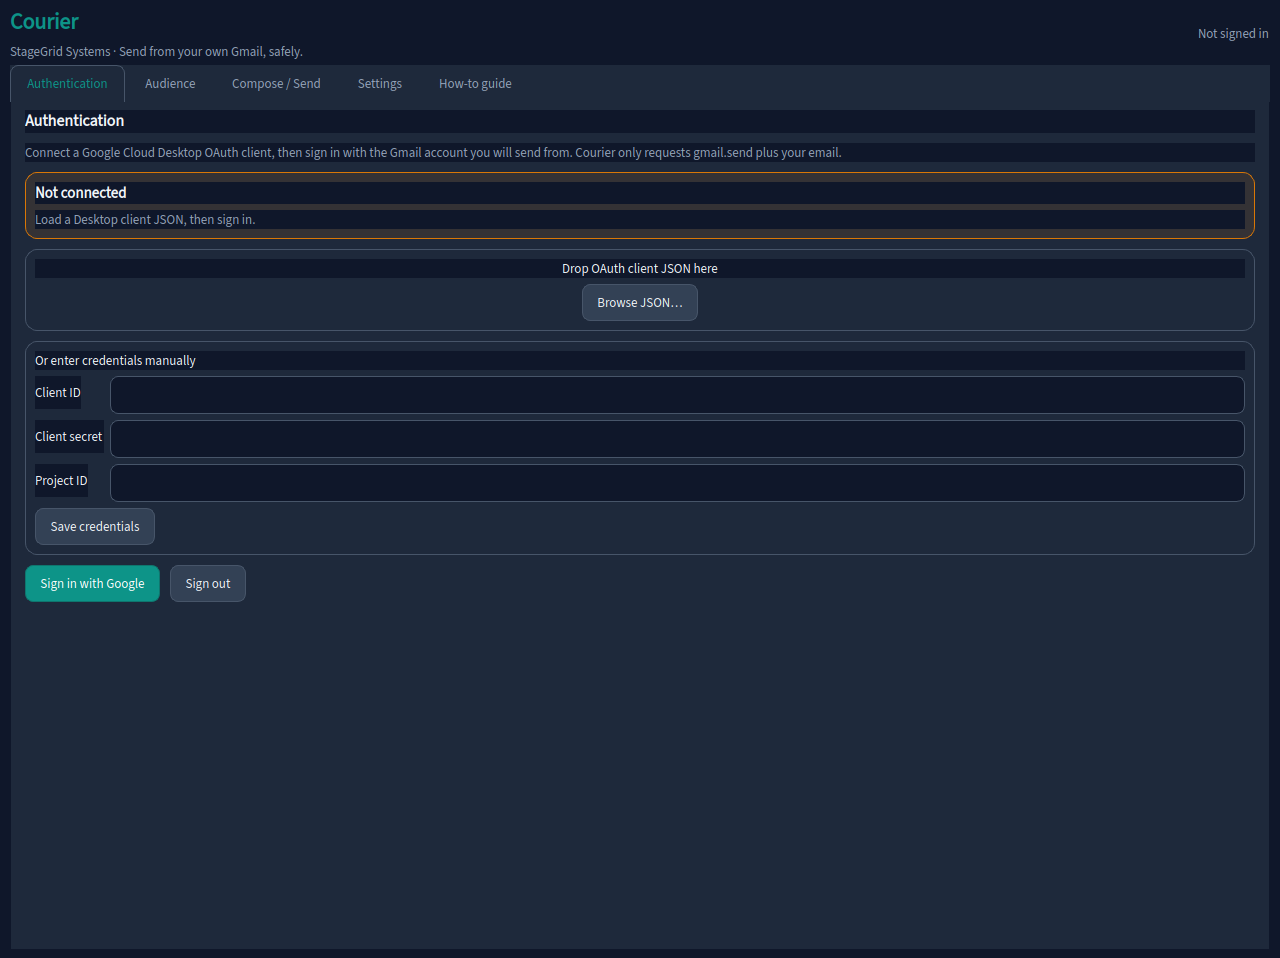
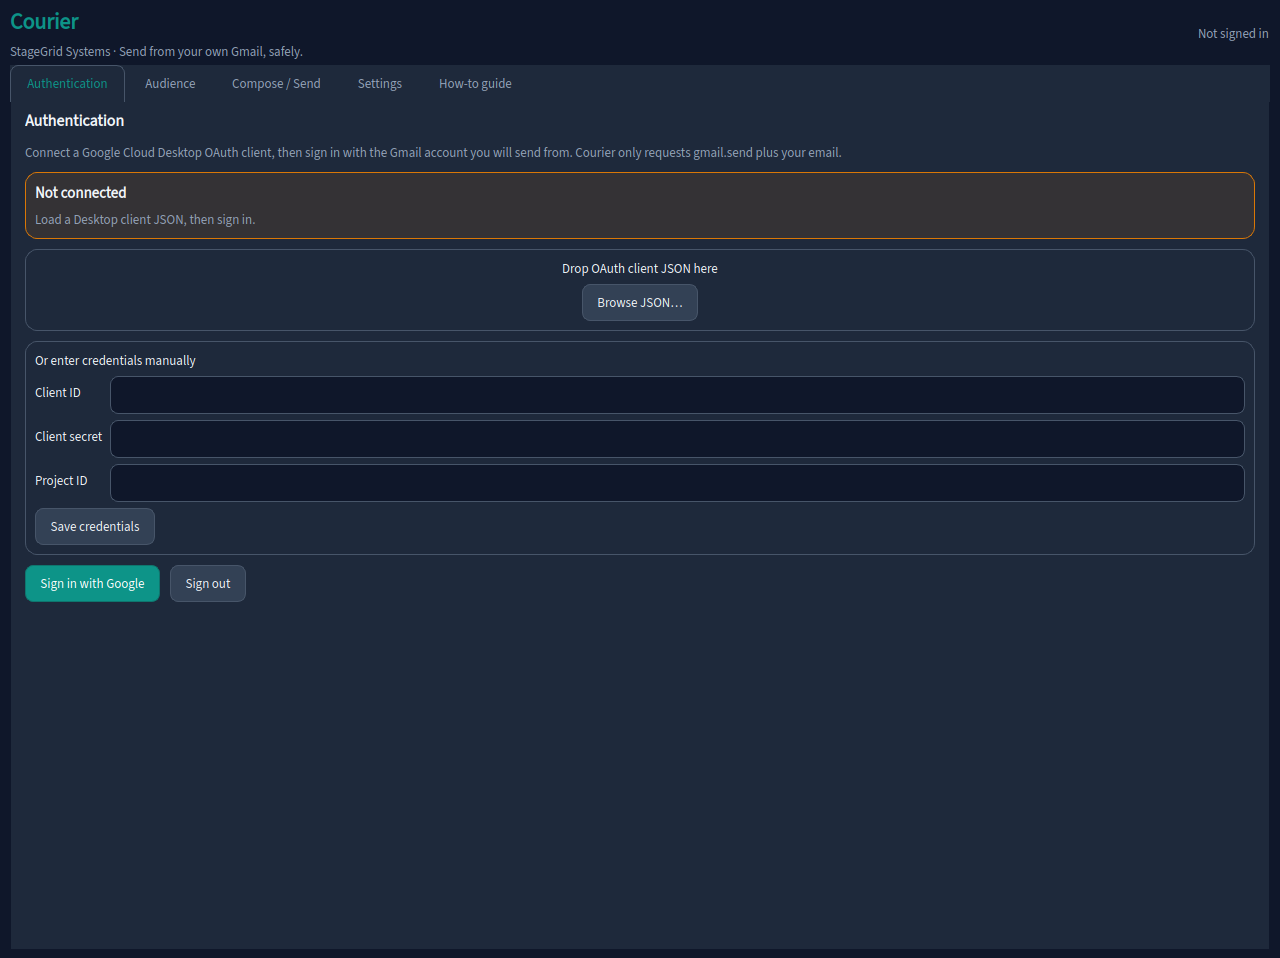
Fix transparent form labels and Cancel-default send confirm
Labels no longer paint dark widget backgrounds on cards; send confirm
defaults focus to Cancel so Enter/Escape dismiss without sending.

Changed region(s): [[0.0312, 0.1816, 0.9688, 0.2422]]

diff --git a/src/courier/ui/tabs/compose_tab.py b/src/courier/ui/tabs/compose_tab.py
@@ -7,7 +7,7 @@ from pathlib import Path
 from typing import Any
 from uuid import uuid4
 
-from PySide6.QtCore import Qt, QThread, Signal
+from PySide6.QtCore import Qt, QThread, QTimer, Signal
 from PySide6.QtWidgets import (
     QCheckBox,
     QDialog,
@@ -78,18 +78,33 @@ class ConfirmSendDialog(QDialog):
         test = buttons.addButton(
             "Send to test audience first", QDialogButtonBox.ButtonRole.ActionRole
         )
-        send_all = buttons.addButton("Send to all", QDialogButtonBox.ButtonRole.AcceptRole)
+        # ActionRole (not AcceptRole): Enter must not trigger send; only an explicit click.
+        send_all = buttons.addButton("Send to all", QDialogButtonBox.ButtonRole.ActionRole)
         send_all.setObjectName("primaryButton")
+        send_all.setAutoDefault(False)
+        send_all.setDefault(False)
+        for btn in (preview, test, send_all):
+            btn.setAutoDefault(False)
+            btn.setDefault(False)
+        cancel.setAutoDefault(True)
+        cancel.setDefault(True)
         cancel.clicked.connect(lambda: self._pick("cancel"))
         preview.clicked.connect(lambda: self._pick("preview"))
         test.clicked.connect(lambda: self._pick("test"))
         send_all.clicked.connect(lambda: self._pick("all"))
+        buttons.rejected.connect(lambda: self._pick("cancel"))
         layout.addWidget(buttons)
+        # Focus Cancel so Enter/Escape dismiss without sending.
+        QTimer.singleShot(0, cancel.setFocus)
+
+    def reject(self) -> None:  # noqa: D102
+        self.choice = "cancel"
+        super().reject()
 
     def _pick(self, choice: str) -> None:
         self.choice = choice
         if choice == "cancel":
-            self.reject()
+            super().reject()
         else:
             self.accept()
 

diff --git a/src/courier/ui/theme.py b/src/courier/ui/theme.py
@@ -23,9 +23,25 @@ def stylesheet(theme: str) -> str:
         font-family: {FONT_UI};
         font-size: 13px;
     }}
-    QMainWindow, QDialog, QWidget {{
+    QMainWindow, QDialog {{
         background-color: {bg};
         color: {text};
+    }}
+    QLabel {{
+        background: transparent;
+        border: none;
+        color: {text};
+    }}
+    QFormLayout QLabel, QLabel#mutedLabel, QLabel#cardHeading, QLabel#sectionTitle {{
+        background: transparent;
+        border: none;
+    }}
+    QLabel#mutedLabel {{
+        color: {muted};
+    }}
+    QLabel#cardHeading {{
+        font-weight: 700;
+        font-size: 14px;
     }}
     QTabWidget::pane {{
         border: 1px solid {border};
@@ -101,18 +117,21 @@ def stylesheet(theme: str) -> str:
         font-size: 22px;
         font-weight: 700;
         color: {primary};
-    }}
-    QLabel#mutedLabel {{
-        color: {muted};
+        background: transparent;
     }}
     QLabel#sectionTitle {{
         font-size: 16px;
         font-weight: 700;
+        background: transparent;
     }}
     QFrame#card {{
         background: {surface};
         border: 1px solid {border};
         border-radius: 12px;
+    }}
+    QFrame#card QLabel {{
+        background: transparent;
+        border: none;
     }}
     QFrame#chipField {{
         background: {bg};

diff --git a/src/courier/ui/widgets/cards.py b/src/courier/ui/widgets/cards.py
@@ -20,13 +20,11 @@ def make_card(
     layout.setSpacing(10)
     heading = QLabel(title)
     heading.setObjectName("cardHeading")
-    heading.setStyleSheet("border: none; font-weight: 700; font-size: 14px;")
     layout.addWidget(heading)
     if subtitle:
         sub = QLabel(subtitle)
         sub.setObjectName("mutedLabel")
         sub.setWordWrap(True)
-        sub.setStyleSheet("border: none;")
         layout.addWidget(sub)
     return card, layout
 
